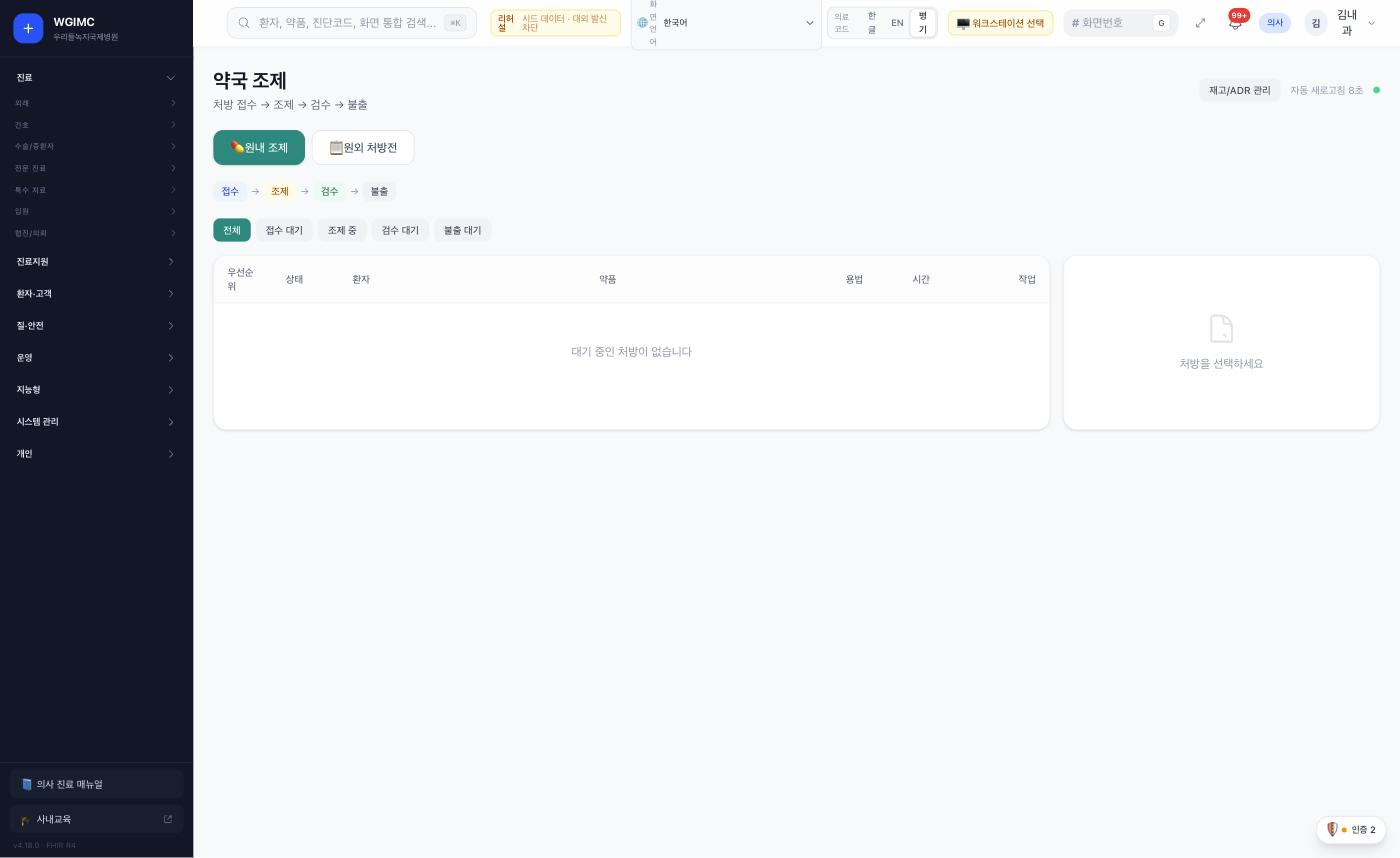
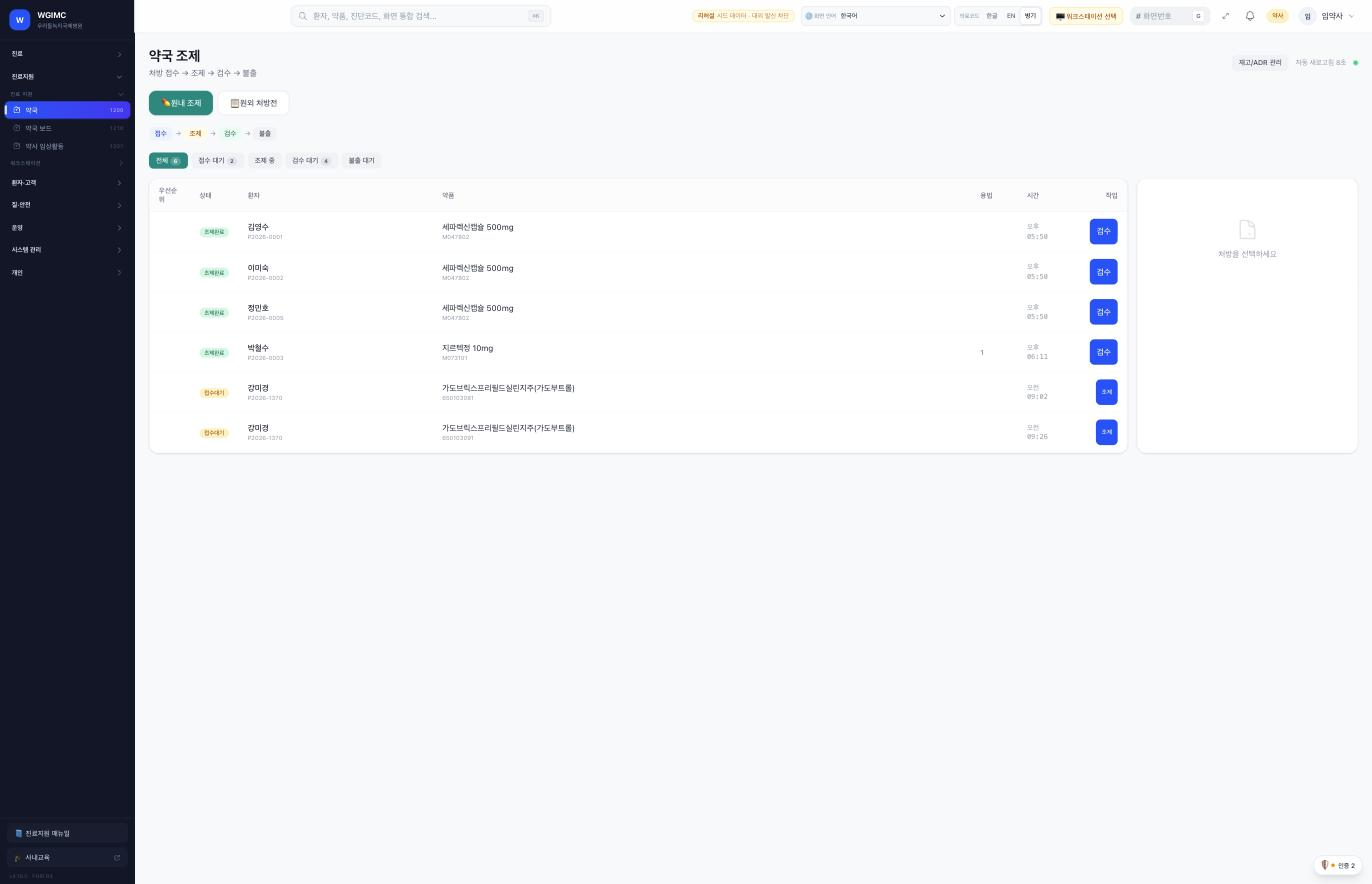
feat(screens): 역할에 맞는 계정으로 4장 — 접수 · 간호 · 병상 · 약국
누계 31장. §17 에서 적은 "역할에 맞는 계정으로 찍어야 한다"를 확인했다.

- 접수(간호사) — 경영진 계정에서는 AI 어시스턴트가 Forbidden 이었는데,
  간호사로 들어가니 인사말과 함께 동작하고 곧 도착 예약 목록도 찬다.
  접수 메뉴는 의사에게는 보이지 않는다.
- 간호 워크스테이션 — 투약·활력징후·I/O·간호기록·인계·병동보드 탭
- 병상·입원 보드 — 병동별 가동률 · 장기재원 14일+ 를 따로 셈 · 평균 재원 91일
- 약국 조제(약사) — 의사 계정에서 비어 있던 대기열이 전체 6(접수 2·검수 4)으로
  차고 조제/검수 버튼이 보인다. 빈 화면을 교체했다.

같은 URL 이어도 계정이 다르면 다른 화면이다.
역할 전환은 좌표 대신 find 로 요소를 찾아 누르는 방식이 안정적이었다.

캡처 대장 31줄 · INDEX 25/266 · verify-all 11/11 통과.

Claude-Session: https://claude.ai/code/session_01HCN4miRjr3zFT7TVfvKWCH

diff --git a/screens/his.md b/screens/his.md
@@ -44,12 +44,12 @@
 
 | # | 담을 화면 | 화면 경로 | 파일 |
 |---|---|---|---|
-| 📷 care-1 | 접수 — 대기 목록과 접수 처리 | `/reception` | `his-care-reception.png` |
+| ✅ care-1 | 접수 — AI 접수 어시스턴트 · 곧 도착 예약 | `/reception` | [`his-care-reception.png`](../assets/screens/his-care-reception.png) |
 | ✅ care-2 | 진료실 대기 — 진료 순서와 호출 | `/clinic-queue` | [`his-care-clinic-queue.png`](../assets/screens/his-care-clinic-queue.png) |
 | ✅ care-3 | 처방(CPOE) — 오더 추적 · 부서별 대기열 | `/orders` | [`his-care-orders.png`](../assets/screens/his-care-orders.png) |
 | ✅ care-4 | 통합 상황판 — 그날의 전체 흐름 | `/command-center` | [`his-care-command-center.png`](../assets/screens/his-care-command-center.png) |
-| 📷 care-5 | 간호 워크스테이션 — 투약 · 활력징후 | `/nursing` 계열 | `his-care-nursing.png` |
-| 📷 care-6 | 병상 현황 — 병동 배치와 재원 | `/beds` 계열 | `his-care-beds.png` |
+| ✅ care-5 | 간호 워크스테이션 — 투약 · 활력징후 · 인계 | `/nurse-station` | [`his-care-nurse-station.png`](../assets/screens/his-care-nurse-station.png) |
+| ✅ care-6 | 병상·입원 보드 — 병동별 가동률 | `/bed-board` | [`his-care-bed-board.png`](../assets/screens/his-care-bed-board.png) |
 
 ### 통합 상황판 — 그날의 병원이 한 화면에
 
@@ -58,6 +58,26 @@
 왼쪽에 도메인 메뉴, 위쪽에 그날의 지표 카드(재원 · 병상 가동률 · 응급 재실 · 접수 대기 · 미수금 · QI 달성률)가 서고, **「지금 조치 필요」** 가 눌러야 할 일을 건수와 함께 모읍니다. 아래는 부서별 보드(간호 스테이션 · 응급실(KTAS) · 병상·입원 · 약국 · 원무·수납 · 검사·영상 위험값 · 감염·질안전)와 **「원내 여정」**(접수 → 호출 → 진료중 → 수납대기 → 완료 단계별 인원과 지연)입니다.
 
 > 화면의 병원 · 환자 · 수치는 모두 **가상 데이터**입니다.
+
+### 접수 — 환자가 병원에 들어오는 자리
+
+![접수 데스크 — AI 접수 어시스턴트와 곧 도착 예약](../assets/screens/his-care-reception.png)
+
+`예약 접수` · `당일 접수` · `신규 환자 등록` · `대기 현황` 네 탭입니다. 환자를 찾아 진료과와 의사를 고르고, 초진·재진과 증상을 적어 접수합니다. 오른쪽에 **AI(WeRU.B) 접수 어시스턴트**가 있어 "이름 · 전화번호 · 증상"을 자유롭게 적으면 접수를 돕고, 증상 칸에는 `AI(WeRU.B) 추천` 버튼이 붙습니다. **AI 는 접수를 돕고 제안할 뿐이고 접수 확정은 사람이 누릅니다.**
+
+오른쪽 세로줄에 지금 대기 수 · **곧 도착 예약**(시각 · 환자 · 진료과와 `호출` 버튼 · 지각 표시) · 진료실 현황이 섭니다.
+
+> 이 화면은 **간호사 계정**으로 찍었습니다. 접수 메뉴는 관리자 · 간호사 · 원무에게 보이고 **의사에게는 보이지 않습니다** → [역할 비교](by-onboarding.md#역할이-바뀌면-화면이-바뀐다)
+
+### 간호 워크스테이션과 병상 보드
+
+![간호 워크스테이션 — 병동 입원 환자와 간호 업무 탭](../assets/screens/his-care-nurse-station.png)
+
+병동을 고르면 그 병동의 입원 환자 · 낙상 위험 · 욕창 위험 · **투약 대기** 수가 먼저 서고, 아래 탭으로 간호 업무가 나뉩니다 — `내 환자` · `투약 관리` · `활력징후` · `I/O 기록` · `간호 기록` · **`인계(상·하반)`** · `병동 보드`. 환자마다 병실 · 입원 며칠째 · 투약 건수 · **마지막 활력징후와 마지막 기록이 얼마나 지났는지**가 붙습니다.
+
+![병상·입원 보드 — 병동별 가동률](../assets/screens/his-care-bed-board.png)
+
+병동별 병상 가동률과 재원 · 가용 · 예약 · 청소 · 격리 · 점검 상태를 한 판에 봅니다. **장기재원(14일 이상)** 을 따로 세고, 평균 재원일을 함께 적습니다. 병동 벽에 띄우는 용도입니다.
 
 ### 진료실 대기 — 없는 값을 그리지 않는 자리
 

diff --git a/assets/CAPTURE-LEDGER.md b/assets/CAPTURE-LEDGER.md
@@ -31,4 +31,7 @@
 | `assets/screens/flow-onboarding-04-role-executive.png` | 역할 비교 ④ **경영진** — 첫 화면이 `/executive` 경영 대시보드로 바뀜 · 메뉴 축소 | 아니오(병원명 그대로 — 가상 병원 확인 2026-09-12) · — | 확인 (2026-09-12) |
 | `assets/screens/his-care-orders.png` | 처방 관리 CPOE(`/orders`) — 전체 133(약물 71·검사 47·영상 7·치료 8) · 긴급 17 · 상태별 | 아니오(병원명 그대로 — 가상 병원 확인 2026-09-12) · — | 확인 (2026-09-12) |
 | `assets/screens/his-care-clinic-queue.png` | 진료실 대기(`/clinic-queue`) — 예상 대기 `산출 불가` · 🔒 약국 탭 권한 안내 · 대기 11명 | 아니오(병원명 그대로 — 가상 병원 확인 2026-09-12) · — | 확인 (2026-09-12) |
-| `assets/screens/his-support-pharmacy.png` | 약국 조제(`/pharmacy`) — 접수→조제→검수→불출 4단계(대기 없음 · 구조만) | 아니오(병원명 그대로 — 가상 병원 확인 2026-09-12) · — | 확인 (2026-09-12) |
+| `assets/screens/his-care-reception.png` | 접수 데스크(`/reception`) — **간호사 계정** · AI 접수 어시스턴트 동작 · 곧 도착 예약 · 진료실 현황 | 아니오(병원명 그대로 — 가상 병원 확인 2026-09-12) · — | 확인 (2026-09-12) |
+| `assets/screens/his-care-nurse-station.png` | 간호 워크스테이션(`/nurse-station`) — 투약·활력징후·I/O·간호기록·인계·병동보드 탭 | 아니오(병원명 그대로 — 가상 병원 확인 2026-09-12) · — | 확인 (2026-09-12) |
+| `assets/screens/his-care-bed-board.png` | 병상·입원 보드(`/bed-board`) — 병동별 가동률 · 장기재원 5 · 평균 재원 91일 | 아니오(병원명 그대로 — 가상 병원 확인 2026-09-12) · — | 확인 (2026-09-12) |
+| `assets/screens/his-support-pharmacy.png` | 약국 조제(`/pharmacy`) — **약사 계정** · 접수→조제→검수→불출 · 전체 6(접수 대기 2 · 검수 대기 4) | 아니오(병원명 그대로 — 가상 병원 확인 2026-09-12) · — | 확인 (2026-09-12) |
